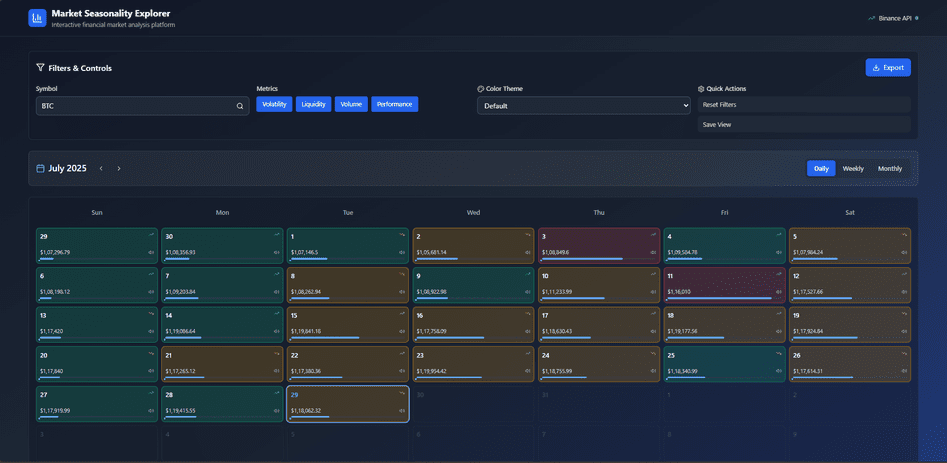
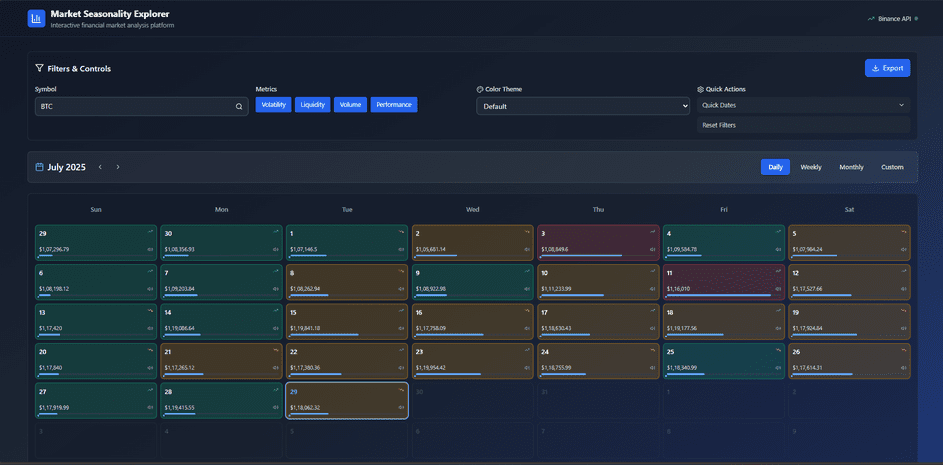
Update README

diff --git a/README.md b/README.md
@@ -14,15 +14,36 @@
 
 ## Built With
 
-- HTML
-- CSS
 - JavaScript
 - TypeScript
 - React
 - Redux Toolkit
 - Jest
-- Vite
 - Tailwind CSS
+
+## Libraries Used
+- React: Core UI library for building components.
+- Redux Toolkit: Simplified state management.
+- React-Redux: React bindings for Redux.
+- Jest: Testing framework.
+- React Testing Library: Utilities for testing UI interactions.
+- Vite: Fast build and development server.
+- Tailwind CSS: Utility-first CSS framework for rapid UI development.
+- Lucide React: Icon set for React.
+- React Day Picker: Accessible date picker component.
+- jsPDF: Client-side PDF generation.
+- Redux Mock Store: For mocking Redux stores in tests.
+
+For a complete list, check the package.json file
+
+## Assumptions Made
+
+- The app requires an active internet connection to fetch live crypto data.
+- Users are expected to interact with the dashboard using modern browsers that support ES modules.
+- Data is expected to be available and structured in a format consumable by the charting and calendar logic.
+- All styling is done using Tailwind CSS and assumes no external CSS frameworks will be mixed in.
+- Testing assumes the DOM is simulated using jsdom through Jest.
+- All dates and times are handled in the user’s local timezone unless explicitly set otherwise.
 
 ## Live version
 
